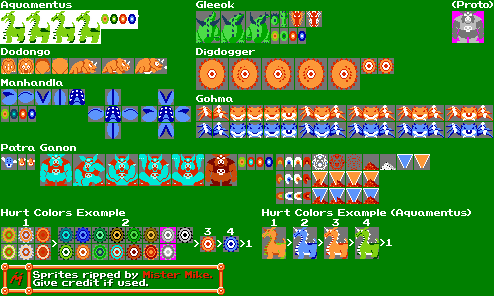
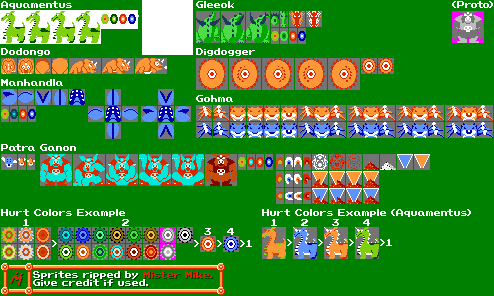
added damaged boss state and made movement cycle better

Changed region(s): [[0.2733, 0.0, 0.3947, 0.2128]]

diff --git a/CrossPlatformDesktopProject/CrossPlatformDesktopProject/NPC/Boss/BossDamaged.cs b/CrossPlatformDesktopProject/CrossPlatformDesktopProject/NPC/Boss/BossDamaged.cs
@@ -9,21 +9,24 @@ namespace CrossPlatformDesktopProject.NPC
     {
         private int my_frame_index = 0;
         private int delay_frame_index = 0;
-        private Boss Boss;
+        private Boss boss;
         private Fireball fireball1, fireball2, fireball3;
         private int counter;
 
         private static int delay_frames = 10;
         private static List<Rectangle> my_source_frames = new List<Rectangle>{
             NpcTextureStorage.BOSS_1,
+            NpcTextureStorage.BOSS_HURT,
             NpcTextureStorage.BOSS_2,
+            NpcTextureStorage.BOSS_HURT,
             NpcTextureStorage.BOSS_3,
+            NpcTextureStorage.BOSS_HURT,
             NpcTextureStorage.BOSS_4
         };
 
-        public BossDamaged(Boss Boss, Fireball fireball1, Fireball fireball2, Fireball fireball3)
+        public BossDamaged(Boss boss, Fireball fireball1, Fireball fireball2, Fireball fireball3)
         {
-            this.Boss = Boss;
+            this.boss = boss;
             this.fireball1 = fireball1;
             this.fireball2 = fireball2;
             this.fireball3 = fireball3;
@@ -44,7 +47,14 @@ namespace CrossPlatformDesktopProject.NPC
         {
             if (counter == 5)
             {
-                Boss.currentState = new BossWalkEast(Boss, fireball1, fireball2, fireball3);
+                if (boss.movement)
+                {
+                    boss.currentState = new BossWalkEast(boss, fireball1, fireball2, fireball3);
+                }
+                else
+                {
+                    boss.currentState = new BossWalkWest(boss, fireball1, fireball2, fireball3);
+                }
             }
 
             if (++delay_frame_index >= delay_frames)

diff --git a/CrossPlatformDesktopProject/CrossPlatformDesktopProject/NPC/Boss/BossAttack.cs b/CrossPlatformDesktopProject/CrossPlatformDesktopProject/NPC/Boss/BossAttack.cs
@@ -31,9 +31,9 @@ namespace CrossPlatformDesktopProject.NPC
             my_frame_index = 0;
             delay_frame_index = 0;
 
-            fireball1.currentState = new TopFireball(fireball1, boss.xPos - 10, boss.yPos + 10, true);
-            fireball2.currentState = new MiddleFireball(fireball2, boss.xPos - 10, boss.yPos + 30, true);
-            fireball3.currentState = new BottomFireball(fireball3, boss.xPos - 10, boss.yPos + 50, true);
+            fireball1.currentState = new TopFireball(fireball1, boss.xPos - 10, boss.yPos, true);
+            fireball2.currentState = new MiddleFireball(fireball2, boss.xPos - 10, boss.yPos + 20, true);
+            fireball3.currentState = new BottomFireball(fireball3, boss.xPos - 10, boss.yPos + 40, true);
         }
 
         public void Draw(SpriteBatch spriteBatch, float xPos, float yPos)
@@ -52,7 +52,16 @@ namespace CrossPlatformDesktopProject.NPC
         {
             if (fireball2.xPos < 3)
             {
-                boss.currentState = new BossWalkWest(boss, fireball1, fireball2, fireball3);
+                if (!boss.movement)
+                {
+                    boss.currentState = new BossWalkEast(boss, fireball1, fireball2, fireball3);
+                    boss.movement = true;
+                } else
+                {
+                    boss.currentState = new BossWalkWest(boss, fireball1, fireball2, fireball3);
+                    boss.movement = false;
+
+                }
             }
 
             if (++delay_frame_index >= delay_frames)

diff --git a/CrossPlatformDesktopProject/CrossPlatformDesktopProject/NPC/Boss/Boss.cs b/CrossPlatformDesktopProject/CrossPlatformDesktopProject/NPC/Boss/Boss.cs
@@ -9,14 +9,17 @@ namespace CrossPlatformDesktopProject.NPC
         public INpcState currentState;
         public float xPos, yPos;
         public Rectangle hitbox;
-        public int health, hitboxX, hitboxY;
+        public int health, hitboxX, hitboxY, movementRNG;
         public Game1 myGame;
+        public System.Random random;
+        public bool movement;
 
         public Boss(float xPos, float yPos, Fireball fireball1, Fireball fireball2, Fireball fireball3, Game1 game)
         {
+            this.random = new System.Random();
             this.myGame = game;
+            this.movement = false;
 
-            currentState = new BossWalkWest(this, fireball1, fireball2, fireball3);
             health = 8;
 
             this.xPos = xPos;
@@ -25,6 +28,8 @@ namespace CrossPlatformDesktopProject.NPC
             hitboxX = 24;
             hitboxY = 32;
             hitbox = new Rectangle((int)xPos, (int)yPos, hitboxX, hitboxY);
+
+            currentState = new BossWalkWest(this, fireball1, fireball2, fireball3);
         }
 
         public void Update()

diff --git a/CrossPlatformDesktopProject/CrossPlatformDesktopProject/NPC/Projectiles/Boomerang/BoomerangUp.cs b/CrossPlatformDesktopProject/CrossPlatformDesktopProject/NPC/Projectiles/Boomerang/BoomerangUp.cs
@@ -65,15 +65,15 @@ namespace CrossPlatformDesktopProject.NPC
 
                     if (boomerang.travelmarker == 0)
                     {
-                        boomerang.yPos -= 10;
+                        boomerang.yPos -= 5;
                         counter++;
                     }
                     else if (boomerang.travelmarker == 1)
                     {
-                        boomerang.yPos += 10;
+                        boomerang.yPos += 5;
                     }
 
-                    if (counter == 10)
+                    if (counter == 15)
                     {
                         boomerang.travelmarker = 1;
                     }

diff --git a/CrossPlatformDesktopProject/CrossPlatformDesktopProject/NPC/NpcTextureStorage.cs b/CrossPlatformDesktopProject/CrossPlatformDesktopProject/NPC/NpcTextureStorage.cs
@@ -119,6 +119,8 @@ namespace CrossPlatformDesktopProject.NPC
         public static Rectangle BOSS_3 = new Rectangle(1 + 5 * 10, 11, 24, 32);
         public static Rectangle BOSS_4 = new Rectangle(6 + 7 * 10, 11, 24, 32);
 
+        public static Rectangle BOSS_HURT = new Rectangle(6 + 15 * 10, 11, 24, 32);
+
         public static Rectangle BOSS_ATTACK_1 = new Rectangle(1 + 10 * 10, 11, 8, 15);
         public static Rectangle BOSS_ATTACK_2 = new Rectangle(0 + 11 * 10, 11, 8, 15);
         public static Rectangle BOSS_ATTACK_3 = new Rectangle(9 + 11 * 10, 11, 8, 15);

diff --git a/CrossPlatformDesktopProject/CrossPlatformDesktopProject/NPC/Projectiles/Boomerang/BoomerangDown.cs b/CrossPlatformDesktopProject/CrossPlatformDesktopProject/NPC/Projectiles/Boomerang/BoomerangDown.cs
@@ -65,12 +65,12 @@ namespace CrossPlatformDesktopProject.NPC
 
                     if (boomerang.travelmarker == 0)
                     {
-                        boomerang.yPos += 10;
+                        boomerang.yPos += 5;
                         counter++;
                     }
                     else if (boomerang.travelmarker == 1)
                     {
-                        boomerang.yPos -= 10;
+                        boomerang.yPos -= 5;
                     }
 
                     if (counter == 10)

diff --git a/CrossPlatformDesktopProject/CrossPlatformDesktopProject/NPC/Projectiles/Boomerang/BoomerangLeft.cs b/CrossPlatformDesktopProject/CrossPlatformDesktopProject/NPC/Projectiles/Boomerang/BoomerangLeft.cs
@@ -65,12 +65,12 @@ namespace CrossPlatformDesktopProject.NPC
 
                     if (boomerang.travelmarker == 0)
                     {
-                        boomerang.xPos -= 10;
+                        boomerang.xPos -= 5;
                         counter++;
                     }
                     else if (boomerang.travelmarker == 1)
                     {
-                        boomerang.xPos += 10;
+                        boomerang.xPos += 5;
                     }
 
                     if (counter == 10)

diff --git a/CrossPlatformDesktopProject/CrossPlatformDesktopProject/NPC/Projectiles/Boomerang/BoomerangRight.cs b/CrossPlatformDesktopProject/CrossPlatformDesktopProject/NPC/Projectiles/Boomerang/BoomerangRight.cs
@@ -65,12 +65,12 @@ namespace CrossPlatformDesktopProject.NPC
 
                     if (boomerang.travelmarker == 0)
                     {
-                        boomerang.xPos += 10;
+                        boomerang.xPos += 5;
                         counter++;
                     }
                     else if (boomerang.travelmarker == 1)
                     {
-                        boomerang.xPos -= 10;
+                        boomerang.xPos -= 5;
                     }
 
                     if (counter == 10)

diff --git a/CrossPlatformDesktopProject/CrossPlatformDesktopProject/Game1.cs b/CrossPlatformDesktopProject/CrossPlatformDesktopProject/Game1.cs
@@ -51,7 +51,7 @@ namespace CrossPlatformDesktopProject
             player = new Player();
             collisionManager = new CollisionManager(this);
             currentHUD = new HUDWindow(player, this);
-            currentState = currentGamePlayState = new GamePlayState(this, Room.FromId(this, "001"));
+            currentState = currentGamePlayState = new GamePlayState(this, Room.FromId(this, "009"));
             windows = new WindowManager(this);
 
             controllerList = new List<IController>()

diff --git a/CrossPlatformDesktopProject/CrossPlatformDesktopProject/NPC/Boss/BossWalkWest.cs b/CrossPlatformDesktopProject/CrossPlatformDesktopProject/NPC/Boss/BossWalkWest.cs
@@ -48,7 +48,7 @@ namespace CrossPlatformDesktopProject.NPC
         {
             if (counter == 10)
             {
-                boss.currentState = new BossWalkEast(boss, fireball1, fireball2, fireball3);
+                boss.currentState = new BossAttack(boss, fireball1, fireball2, fireball3);
             }
 
             if (++delay_frame_index >= delay_frames)

diff --git a/CrossPlatformDesktopProject/CrossPlatformDesktopProject/NPC/Goriya/Goriya.cs b/CrossPlatformDesktopProject/CrossPlatformDesktopProject/NPC/Goriya/Goriya.cs
@@ -28,8 +28,8 @@ namespace CrossPlatformDesktopProject.NPC
             this.yPos = yPos;
             this.initialY = yPos;
 
-            hitboxX = 30;
-            hitboxY = 30;
+            hitboxX = 20;
+            hitboxY = 20;
             hitbox = new Rectangle((int)xPos, (int)yPos, hitboxX, hitboxY);
 
             movementRNG = random.Next(1, 4);

diff --git a/CrossPlatformDesktopProject/CrossPlatformDesktopProject/NPC/Skeleton/Skeleton.cs b/CrossPlatformDesktopProject/CrossPlatformDesktopProject/NPC/Skeleton/Skeleton.cs
@@ -24,8 +24,8 @@ namespace CrossPlatformDesktopProject.NPC
             this.yPos = yPos;
             this.initialY = yPos;
 
-            hitboxX = 25;
-            hitboxY = 25;
+            hitboxX = 20;
+            hitboxY = 20;
             hitbox = new Rectangle((int)xPos, (int)yPos, hitboxX, hitboxY);
 
             movementRNG = random.Next(1, 4);
